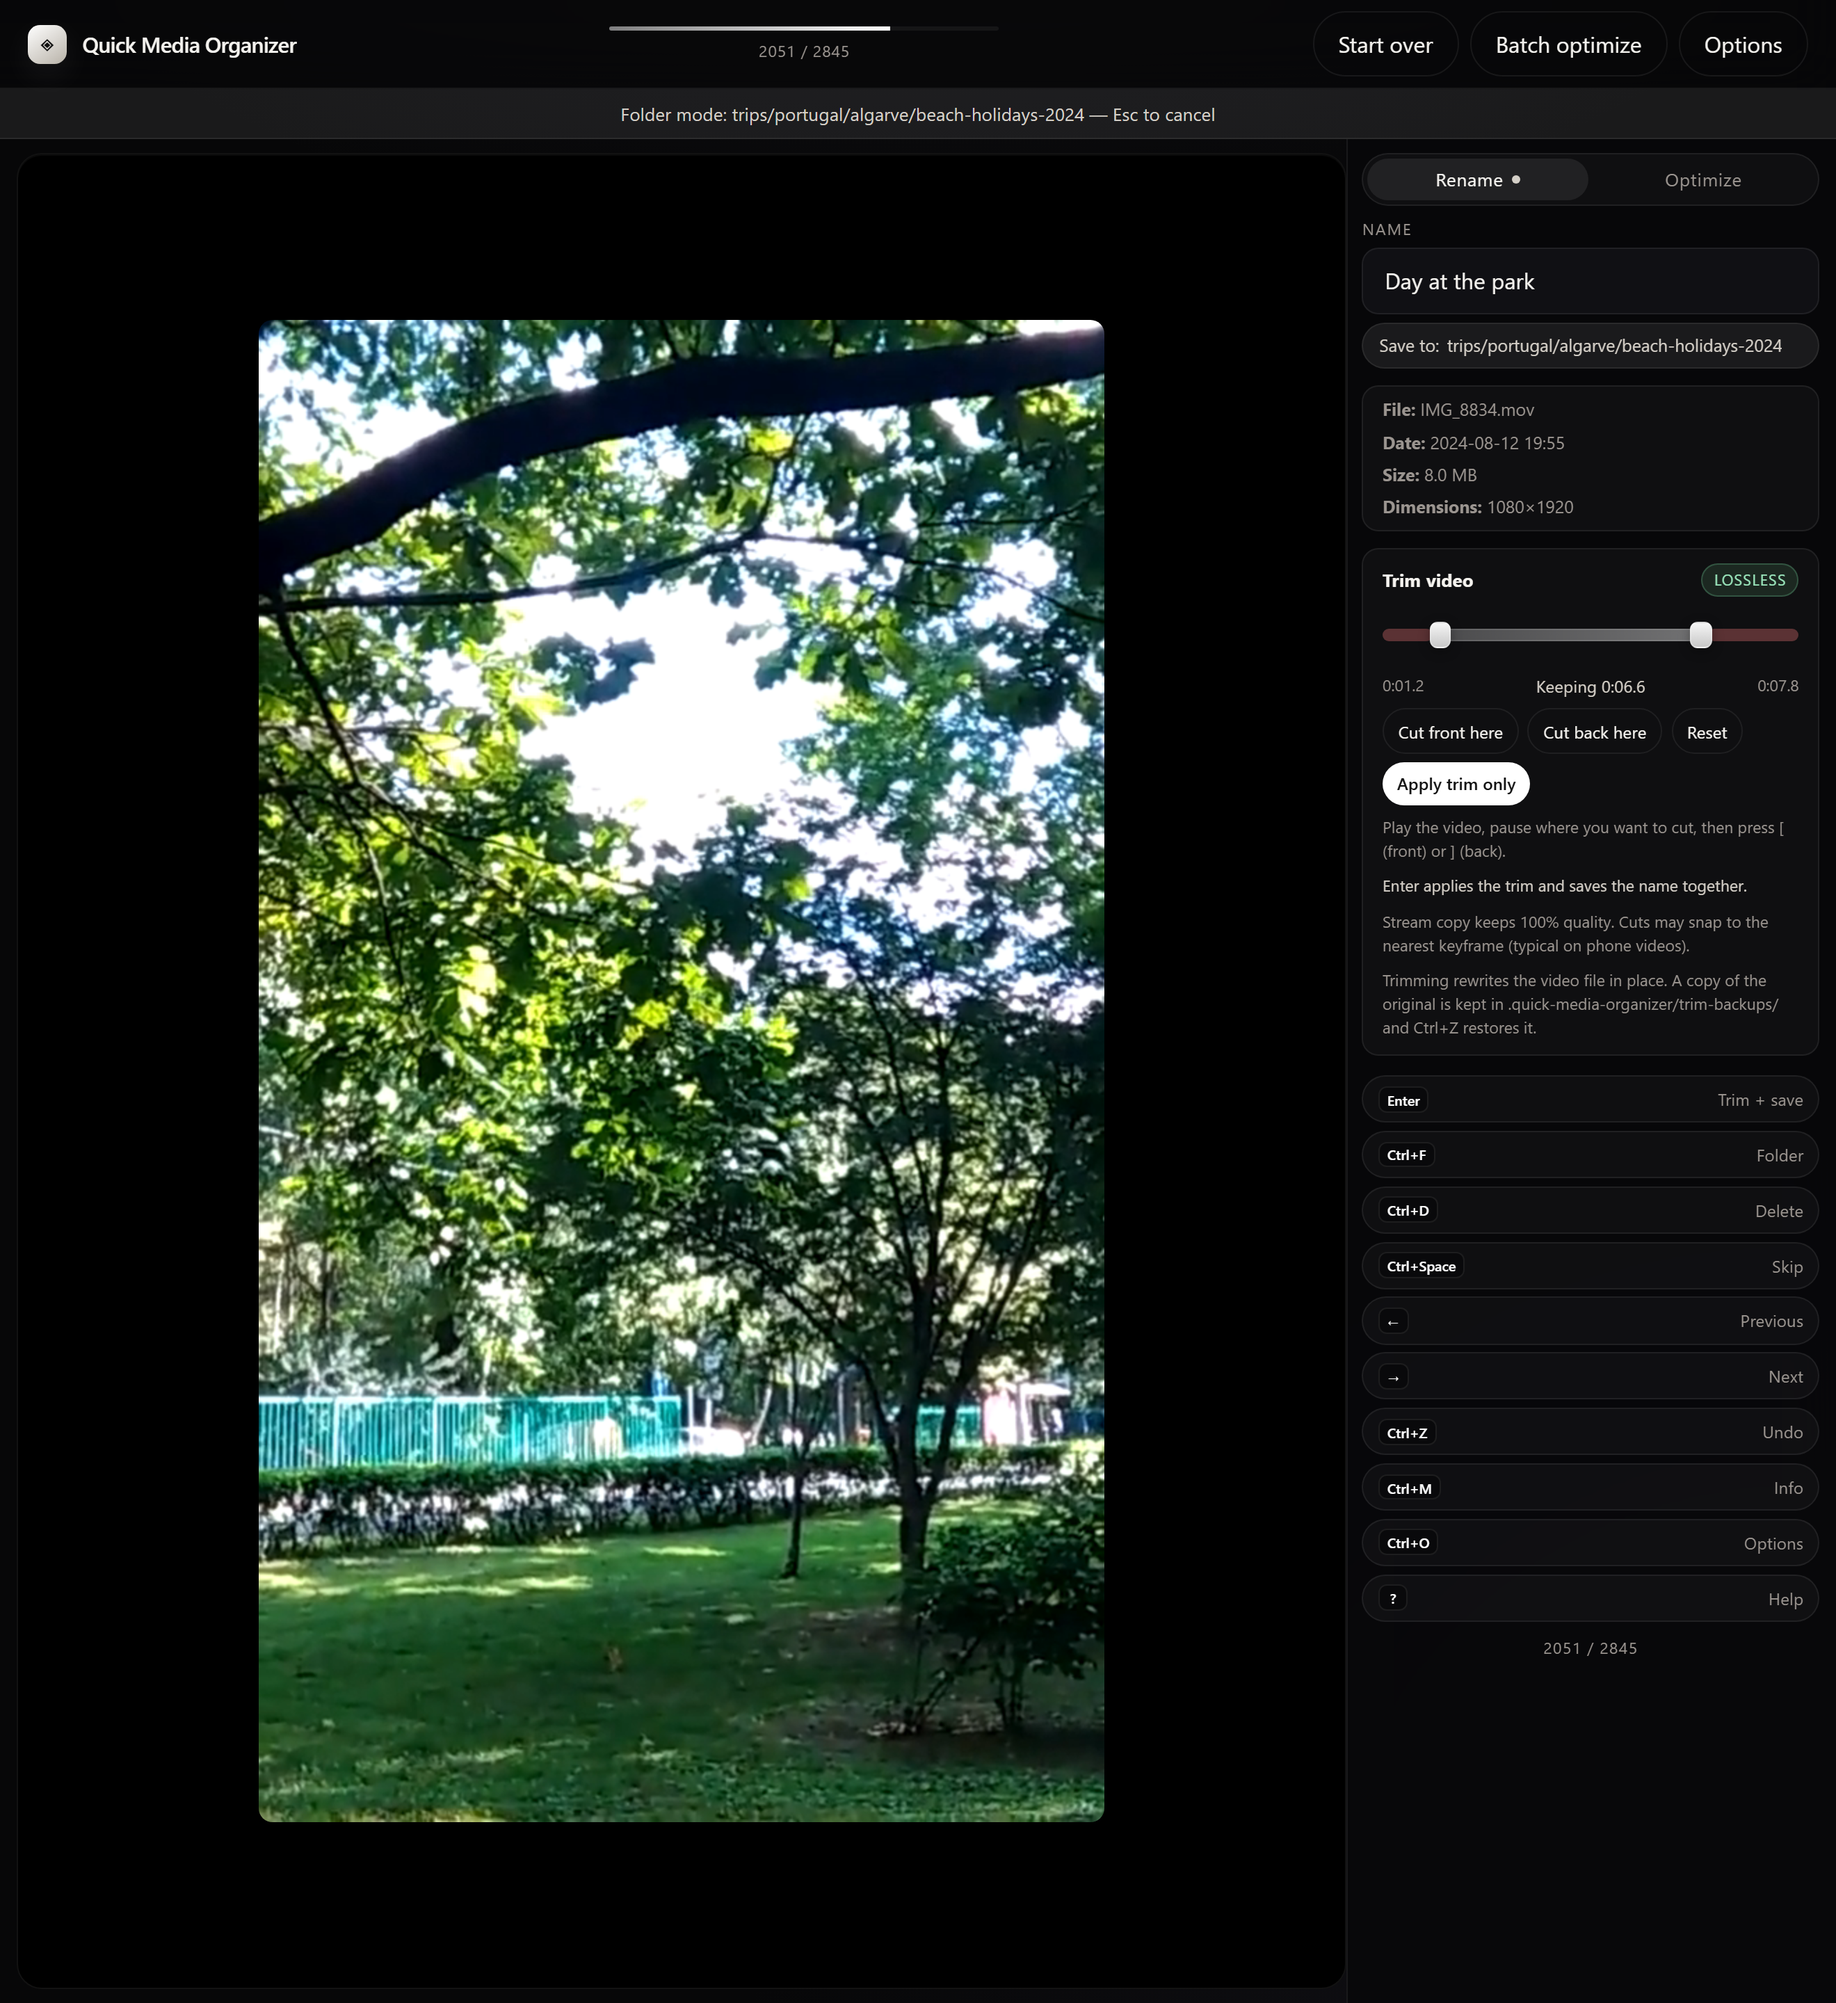
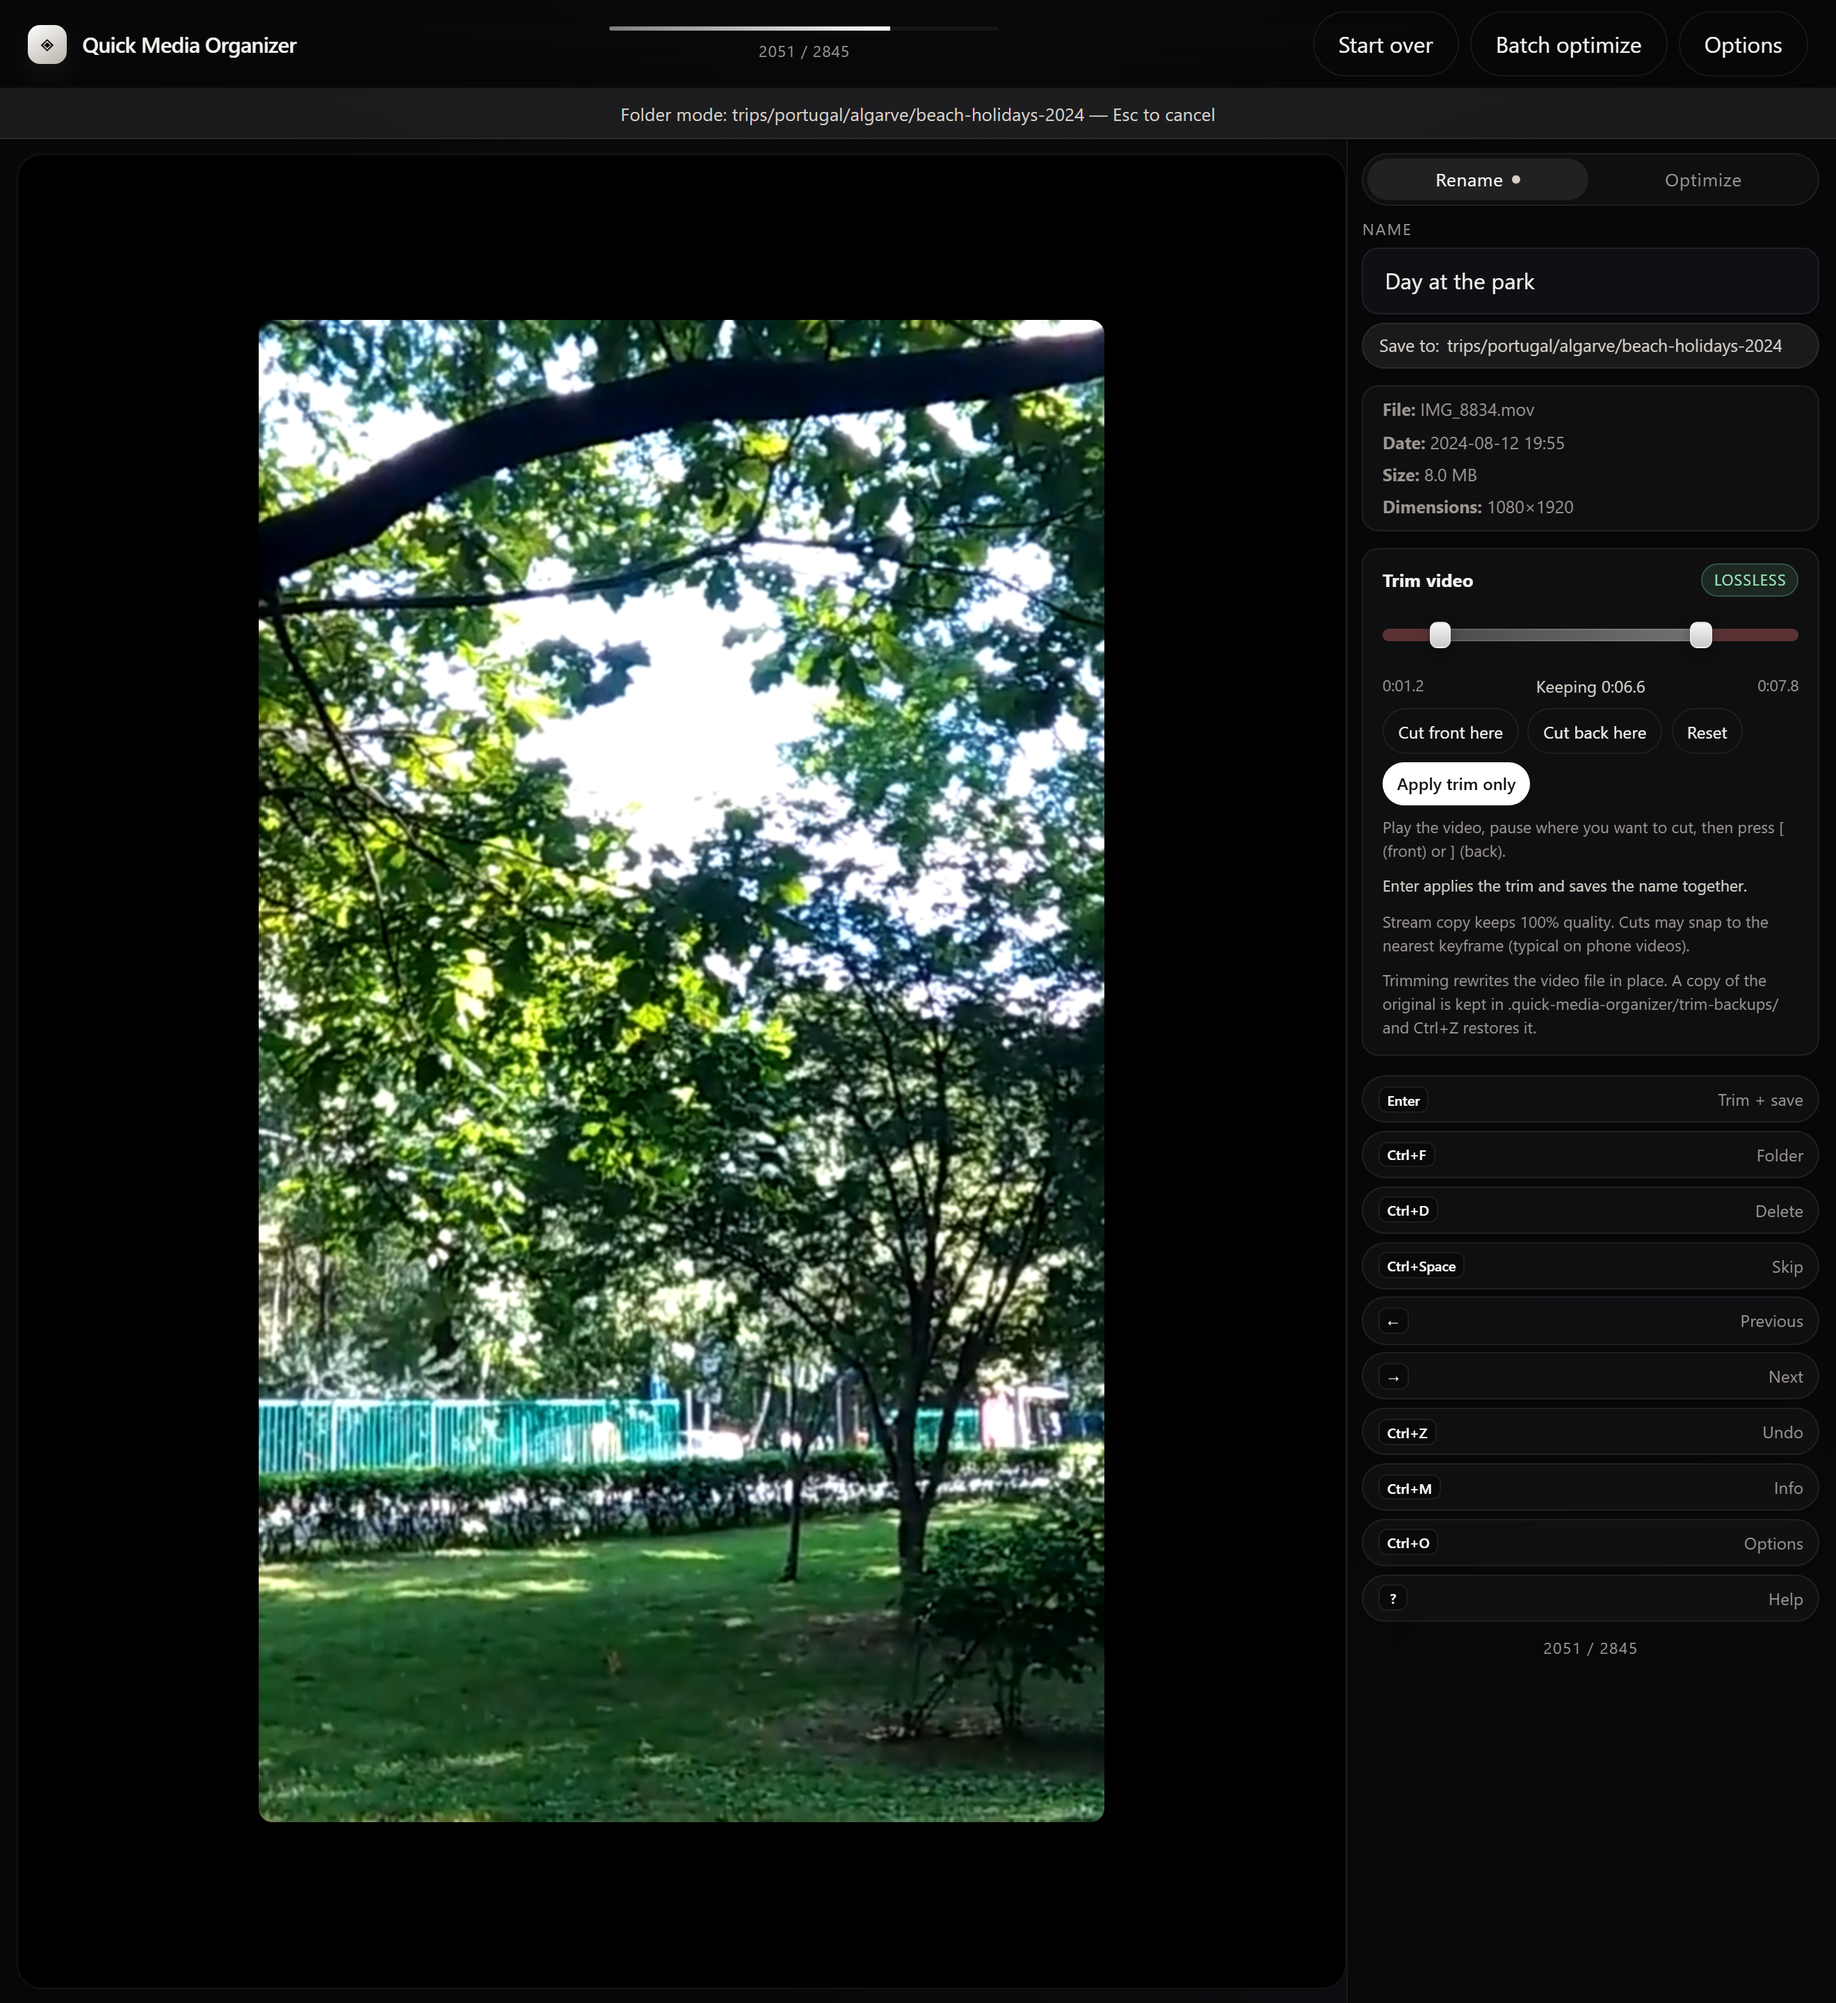
docs: capture the batch settings step
Shows codec, CRF, resolution and frame-rate caps, audio and output mode.
Switches and the CRF slider were stretching across the 1100px dialog.

Changed region(s): [[0.1242, 0.1562, 0.6212, 0.8438], [0.3417, 0.8438, 0.6212, 0.9062], [0.1242, 0.875, 0.3106, 0.9062]]

diff --git a/src/routes/+page.svelte b/src/routes/+page.svelte
@@ -63,6 +63,7 @@
   let batchInitialItems = $state<MediaItem[] | null>(null);
   let batchAutoStart = $state(false);
   let batchDemoJob = $state<BatchJobStatus | null>(null);
+  let batchDemoStep = $state<"select" | "settings" | "run" | null>(null);
   let panelTab = $state<"rename" | "optimize">("rename");
   let trimNotice = $state("");
   let availableUpdate = $state<AvailableUpdate | null>(null);
@@ -189,11 +190,14 @@
     showMetadata = true;
     layoutMode = "sidebar";
 
-    if (mode === "batch-select" || mode === "batch-progress" || mode === "batch-done") {
+    if (mode.startsWith("batch-")) {
       appState = buildScreenshotWorkspaceState();
       batchInitialItems = buildScreenshotBatchItems();
       batchDemoJob =
-        mode === "batch-select" ? null : buildScreenshotBatchJob(mode === "batch-done");
+        mode === "batch-progress" || mode === "batch-done"
+          ? buildScreenshotBatchJob(mode === "batch-done")
+          : null;
+      batchDemoStep = mode === "batch-settings" ? "settings" : null;
       showBatch = true;
       return;
     }
@@ -1109,6 +1113,7 @@
   initialSettings={batchInitialItems && !screenshotMode ? quickSettings : null}
   autoStart={batchAutoStart}
   demoJob={batchDemoJob}
+  demoStep={batchDemoStep}
   demoMode={!!screenshotMode}
   onClose={() => {
     showBatch = false;

diff --git a/src/lib/components/BatchPanel.svelte b/src/lib/components/BatchPanel.svelte
@@ -45,6 +45,7 @@
     initialSettings = null,
     autoStart = false,
     demoJob = null,
+    demoStep = null,
     demoMode = false,
     onClose,
     onSessionChanged,
@@ -62,6 +63,8 @@
     /// Screenshot mode: a canned job, so the progress view can be captured
     /// without encoding anything.
     demoJob?: BatchJobStatus | null;
+    /// Which step to show in screenshot mode.
+    demoStep?: Step | null;
     demoMode?: boolean;
     onClose: () => void;
     onSessionChanged: (state: FrontendState) => void;
@@ -156,8 +159,8 @@
       }
       if (demoJob) {
         job = demoJob;
-        step = "run";
       }
+      step = demoStep ?? (demoJob ? "run" : "select");
       return;
     }
 

diff --git a/src/app.css b/src/app.css
@@ -2073,3 +2073,19 @@ input[type="range"]:disabled {
 .batch-item-list {
   max-width: 860px;
 }
+
+/* Wide dialogs stretched these controls away from their labels. */
+.options-grid .switch-row,
+.options-grid .field-label input[type="range"],
+.batch-settings .radio-row {
+  max-width: 560px;
+}
+
+.batch-preset-save input[type="text"] {
+  max-width: 320px;
+}
+
+/* The codec labels are long, but not full-dialog long. */
+.field-label.wide .select {
+  max-width: 26rem;
+}

diff --git a/src/lib/screenshotDemo.ts b/src/lib/screenshotDemo.ts
@@ -5,6 +5,7 @@ export type ScreenshotMode =
   | "workspace"
   | "workspace-video"
   | "batch-select"
+  | "batch-settings"
   | "batch-progress"
   | "batch-done";
 
@@ -13,6 +14,7 @@ const MODES: ScreenshotMode[] = [
   "workspace",
   "workspace-video",
   "batch-select",
+  "batch-settings",
   "batch-progress",
   "batch-done",
 ];

diff --git a/src/lib/components/BatchSettingsForm.svelte b/src/lib/components/BatchSettingsForm.svelte
@@ -220,7 +220,7 @@
 
   {#if hasVideos && (tab === "video" || !hasImages)}
     <div class="options-grid">
-      <div class="field-label">
+      <div class="field-label wide">
         {t(locale, "batch.settings.codec")}
         <Select
           value={settings.video.codec}

diff --git a/README.es.md b/README.es.md
@@ -53,6 +53,10 @@ Si te ahorra tiempo, te agradecería de corazón un [café ☕](https://buymeaco
 </p>
 
 <p align="center">
+  <img src="docs/screenshots/batch-settings.png" alt="Ajustes del lote: códec, calidad, resolución, audio y salida" width="620" />
+</p>
+
+<p align="center">
   <img src="docs/screenshots/batch-done.png" alt="Lote terminado con el espacio ahorrado por archivo" width="660" />
 </p>
 

diff --git a/README.md b/README.md
@@ -53,6 +53,10 @@ If it saves you time, I'd genuinely appreciate a [coffee ☕](https://buymeacoff
 </p>
 
 <p align="center">
+  <img src="docs/screenshots/batch-settings.png" alt="Batch settings: codec, quality, resolution, audio and output" width="620" />
+</p>
+
+<p align="center">
   <img src="docs/screenshots/batch-done.png" alt="Finished batch job showing the space saved per file" width="660" />
 </p>
 
